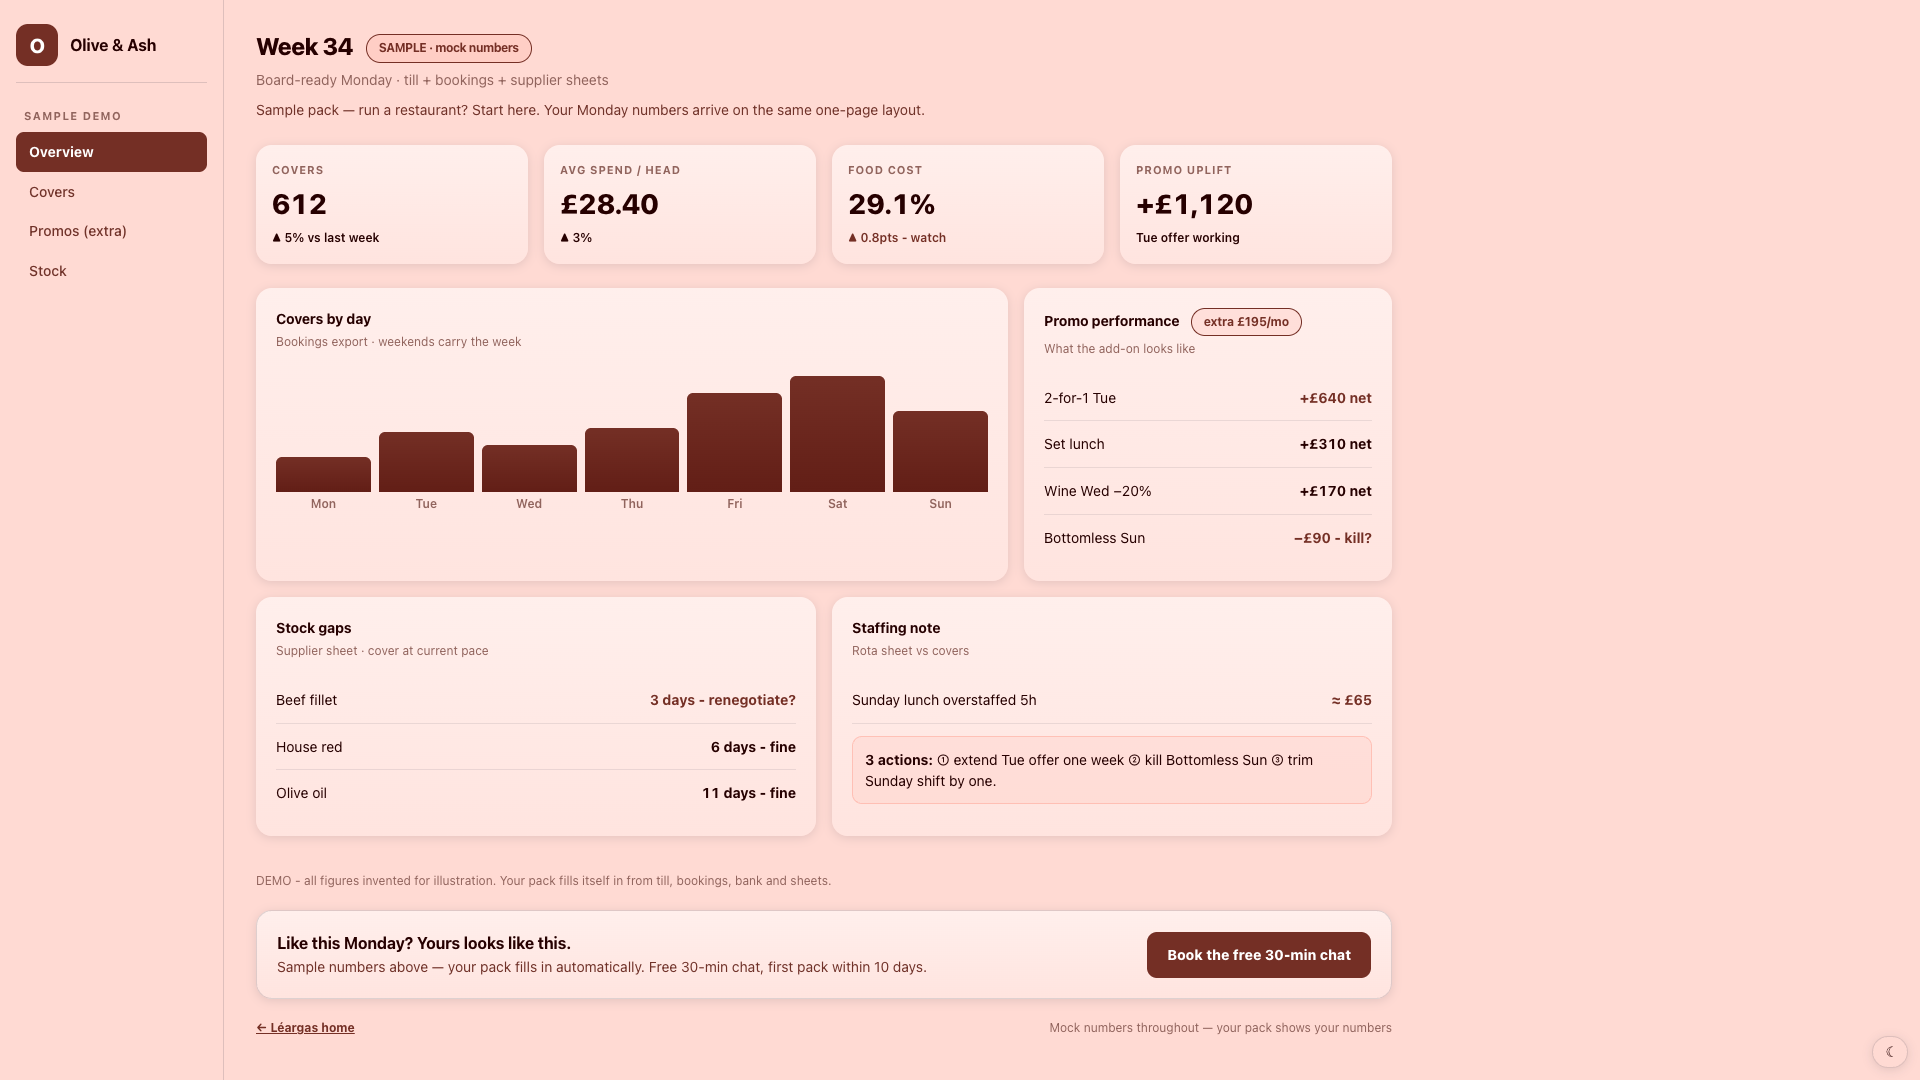
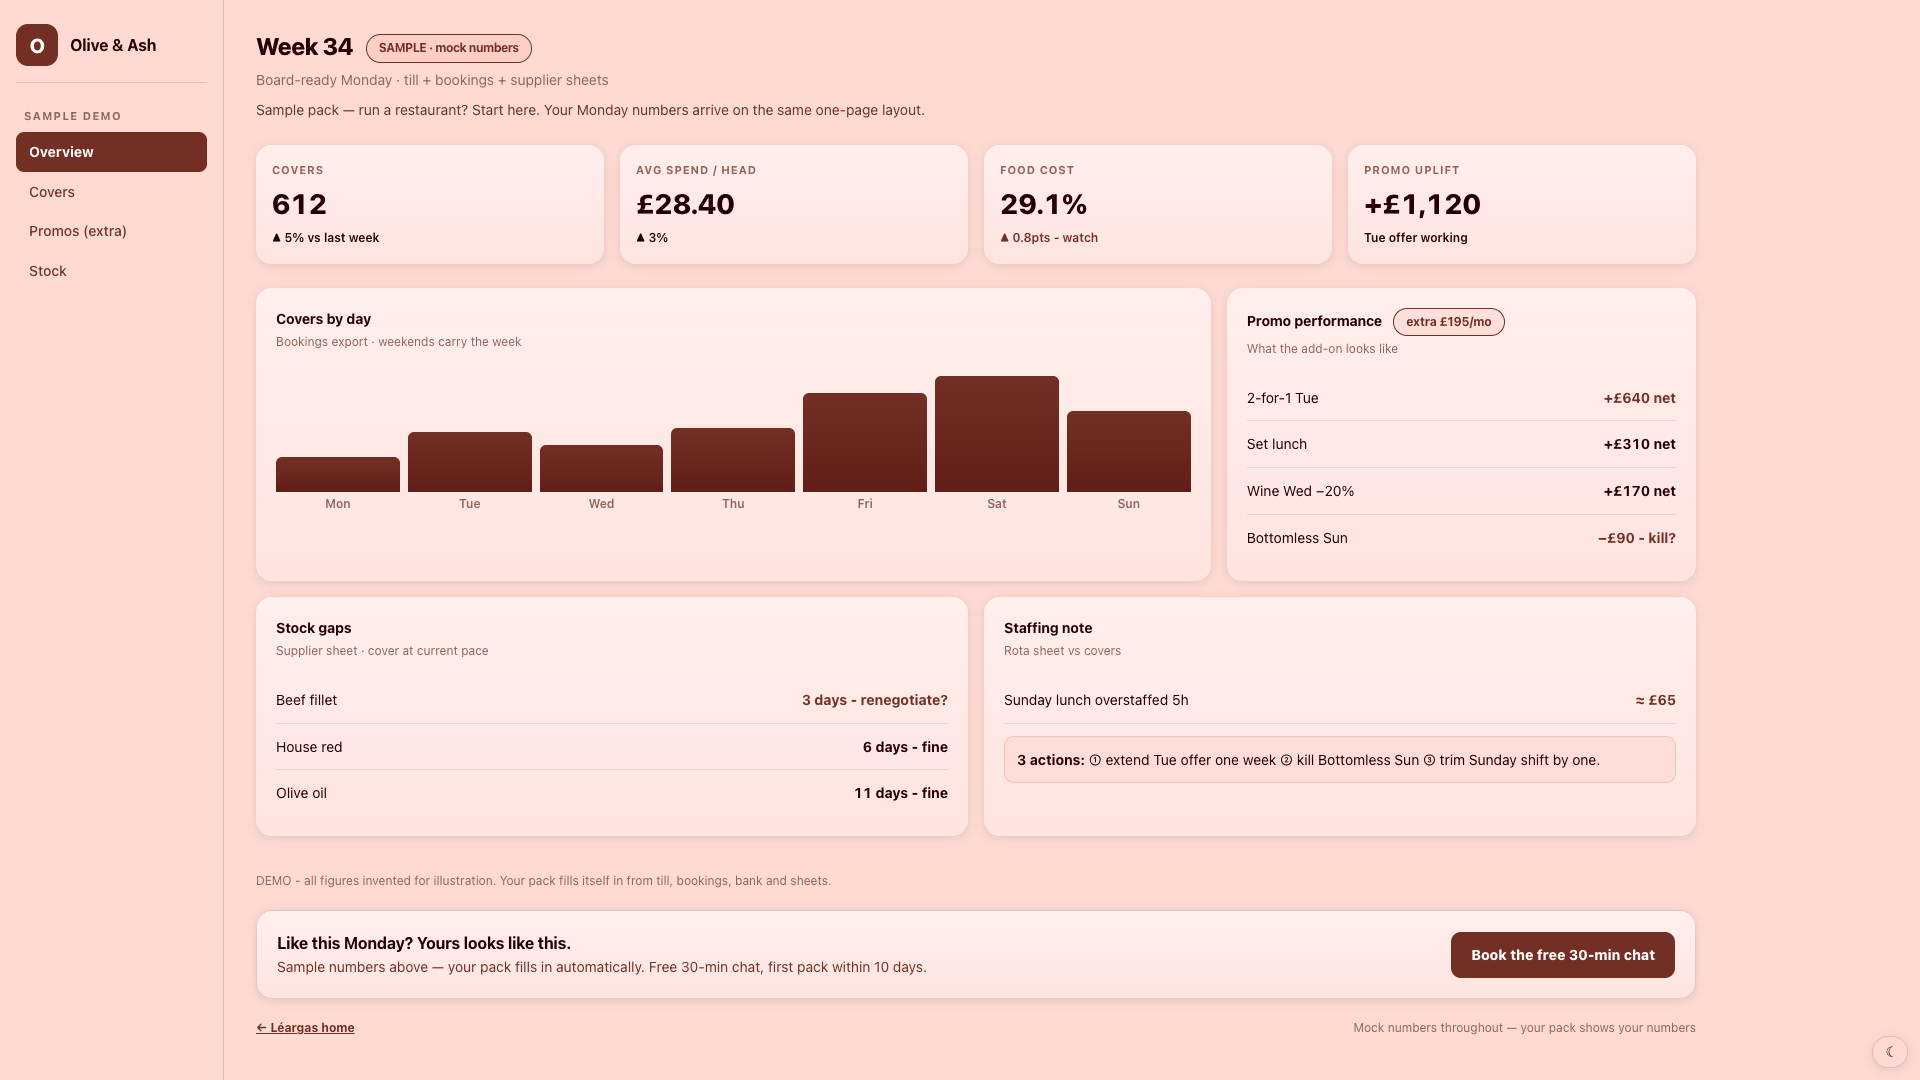
Trio demos match leisure 94rem canvas, stills re-rendered

diff --git a/demo-juice-bar.html b/demo-juice-bar.html
@@ -30,7 +30,7 @@
 .ni{display:block;width:100%;text-align:left;font:inherit;background:none;border:1px solid transparent;padding:.5rem .75rem;border-radius:.5rem;color:var(--muted);font-size:.875rem;font-weight:500;cursor:pointer}
 button.ni{font-family:inherit}.ni:hover{background:rgba(255,255,255,.06);color:var(--ink)}
 .ni.on{background:var(--accent);color:var(--accent-ink);font-weight:700}
-.main{flex:1;min-width:0;padding:1.75rem 2rem 2.5rem;max-width:75rem}.top h1{font-size:clamp(1.25rem,4vw,1.5rem);letter-spacing:-.02em;font-weight:800}
+.main{flex:1;min-width:0;padding:1.75rem 2rem 2.5rem;max-width:94rem}.top h1{font-size:clamp(1.25rem,4vw,1.5rem);letter-spacing:-.02em;font-weight:800}
 .top h1 .pill{vertical-align:middle;margin-left:.5rem}.top h1,.kpi .v,.panel h3{color:var(--ink-hi)}.date{font-size:.875rem;color:var(--faint);margin-top:.25rem}
 .pill{display:inline-block;background:rgba(192,153,255,.15);border:1px solid var(--accent);color:var(--accent);border-radius:999px;padding:.25rem .75rem;font-size:.75rem;font-weight:700;white-space:nowrap}
 .kpis{display:grid;grid-template-columns:repeat(auto-fit,minmax(11rem,1fr));gap:1rem;margin:1.5rem 0}

diff --git a/demo-restaurant.html b/demo-restaurant.html
@@ -30,7 +30,7 @@
 .ni{display:block;width:100%;text-align:left;font:inherit;background:none;border:1px solid transparent;padding:.5rem .75rem;border-radius:.5rem;color:var(--muted);font-size:.875rem;font-weight:500;cursor:pointer}
 button.ni{font-family:inherit}.ni:hover{background:rgba(255,255,255,.06);color:var(--ink)}
 .ni.on{background:var(--accent);color:var(--accent-ink);font-weight:700}
-.main{flex:1;min-width:0;padding:1.75rem 2rem 2.5rem;max-width:75rem}.top h1{font-size:clamp(1.25rem,4vw,1.5rem);letter-spacing:-.02em;font-weight:800}
+.main{flex:1;min-width:0;padding:1.75rem 2rem 2.5rem;max-width:94rem}.top h1{font-size:clamp(1.25rem,4vw,1.5rem);letter-spacing:-.02em;font-weight:800}
 .top h1 .pill{vertical-align:middle;margin-left:.5rem}.top h1,.kpi .v,.panel h3{color:var(--ink-hi)}.date{font-size:.875rem;color:var(--faint);margin-top:.25rem}
 .pill{display:inline-block;background:rgba(255,137,119,.15);border:1px solid var(--accent);color:var(--accent);border-radius:999px;padding:.25rem .75rem;font-size:.75rem;font-weight:700;white-space:nowrap}
 .kpis{display:grid;grid-template-columns:repeat(auto-fit,minmax(11rem,1fr));gap:1rem;margin:1.5rem 0}

diff --git a/demo-social-group.html b/demo-social-group.html
@@ -30,7 +30,7 @@
 .ni{display:block;width:100%;text-align:left;font:inherit;background:none;border:1px solid transparent;padding:.5rem .75rem;border-radius:.5rem;color:var(--muted);font-size:.875rem;font-weight:500;cursor:pointer}
 button.ni{font-family:inherit}.ni:hover{background:rgba(255,255,255,.06);color:var(--ink)}
 .ni.on{background:var(--accent);color:var(--accent-ink);font-weight:700}
-.main{flex:1;min-width:0;padding:1.75rem 2rem 2.5rem;max-width:75rem}.top h1{font-size:clamp(1.25rem,4vw,1.5rem);letter-spacing:-.02em;font-weight:800}
+.main{flex:1;min-width:0;padding:1.75rem 2rem 2.5rem;max-width:94rem}.top h1{font-size:clamp(1.25rem,4vw,1.5rem);letter-spacing:-.02em;font-weight:800}
 .top h1 .pill{vertical-align:middle;margin-left:.5rem}.top h1,.kpi .v,.panel h3{color:var(--ink-hi)}.date{font-size:.875rem;color:var(--faint);margin-top:.25rem}
 .pill{display:inline-block;background:rgba(0,204,214,.15);border:1px solid var(--accent);color:var(--accent);border-radius:999px;padding:.25rem .75rem;font-size:.75rem;font-weight:700;white-space:nowrap}
 .kpis{display:grid;grid-template-columns:repeat(auto-fit,minmax(11rem,1fr));gap:1rem;margin:1.5rem 0}

diff --git a/scripts/ui_gates.py b/scripts/ui_gates.py
@@ -147,7 +147,10 @@ def main() -> int:
         check(f"no-fit-phrase:{p}", "not a fit" not in text[p],
               "phrase purged")
 
-    # 6. Placeholders, previews.
+    # 6. Placeholders, previews, demo canvas width.
+    for d in DEMOS:
+        check(f"demo-width:{d}", "max-width:94rem" in text[d],
+              "same content canvas as leisure club")
     for p in pages:
         hits = [w for w in ("TODO", "FIXME", "lorem", "Lorem") if w in text[p]]
         check(f"no-placeholder:{p}", not hits, f"{hits}" if hits else "clean")

diff --git a/AGENTS.md b/AGENTS.md
@@ -12,6 +12,8 @@
   classes `lk-topbar`/`lk-cta`/`lk-foot`/`lk-note`) inside demos.
 - NO top banner on demos. Wayfinding is the footer home link only — a banner
   photographs into every screenshot and unbalances the dashboard top.
+- All four demos share one content canvas (`.main` max-width 94rem). A
+  narrower cap strands empty space on the right at desktop widths.
 - Demos end at one `.bookbar` band + ONE quiet footer (home link in accent +
   mock line, flex `space-between`, baseline-aligned). No stacked triple
   footers, no green CTA button inside a themed dashboard.
